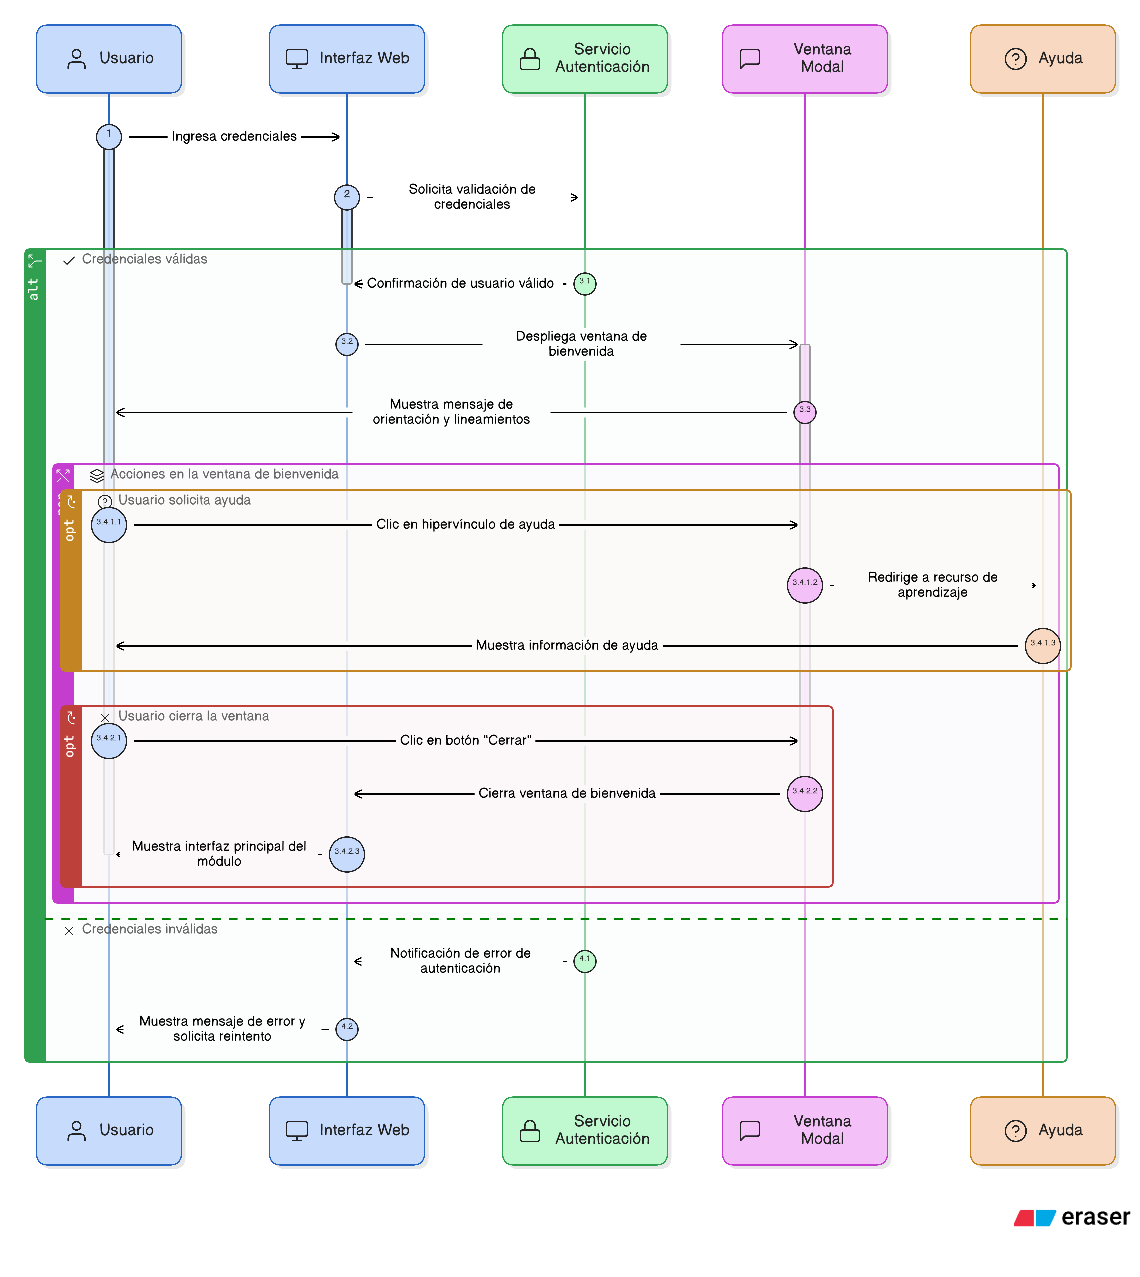
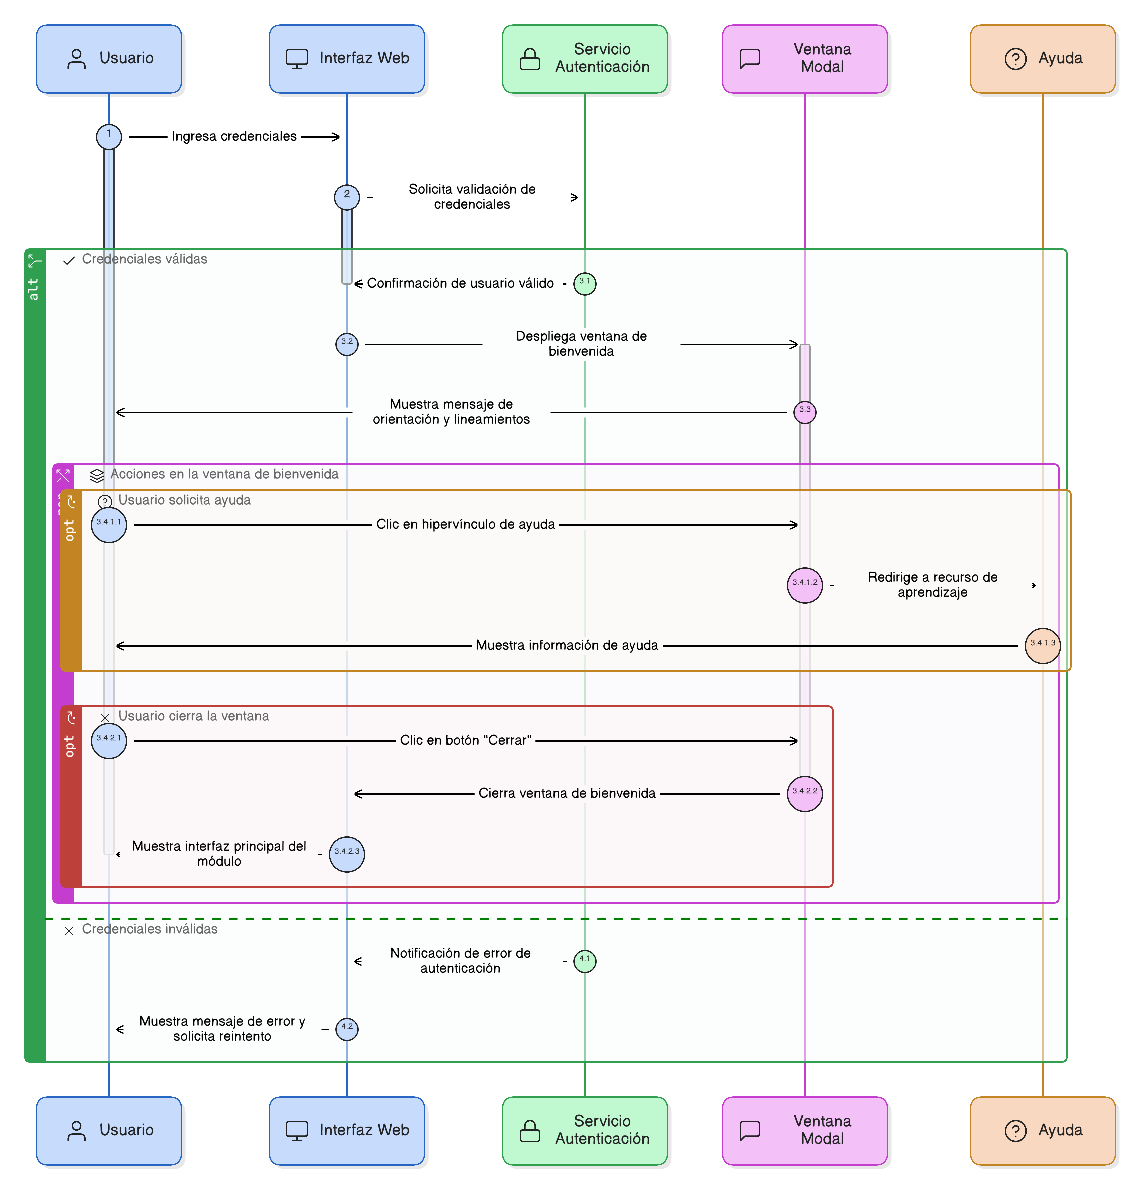
Se crea primera versión de Historía de usuario 004, se ajustan las imagenes referencia de hu-003

diff --git a/content/historias_usuario/HU-IDEAM-SNIF-REST-004/HU-IDEAM-SNIF-REST-004.md b/content/historias_usuario/HU-IDEAM-SNIF-REST-004/HU-IDEAM-SNIF-REST-004.md
@@ -1,0 +1,45 @@
+## HU-IDEAM-SNIF-REST-004
+
+> **Identificador Historia de Usuario:** hu-ideam-snif-rest-002 \
+> **Nombre Historia de Usuario:** Módulo de restauración - Interfaz general de navegación (estructura visual)
+
+> **Área Proyecto:** Subdirección de Ecosistemas e Información Ambiental \
+> **Nombre proyecto:** Realizar la construcción temática, mejoras informáticas y optimización del Módulo de restauración del SNIF del IDEAM. \
+> **Líder funcional:** Wilmer Espitia Muñoz\
+> **Analista de requerimiento de TI:** Sergio Alonso Anaya Estévez
+
+## DESCRIPCIÓN HISTORIA DE USUARIO
+
+> **Como:** usuario solicitante. \
+> **Quiero:** que al cerrar la ventana de bienvenidad, se despliegue la interfaza general del modulo con encabezado, cuerpo y pie de página. \
+> **Para:** navegar por las funcionalidades disponibles.
+
+## CRITERIOS DE ACEPTACIÓN
+
+1. **Encabezado (Header)**  
+   1.1 El encabezado debe mostar el logo institucional del IDEAM y la identidad visual del modulo, esto para permitir el origen del sistema. \
+   
+2. **Cuerpo (Body)**  
+   2.1 El cuerpo de la interfaz debe estar dividido en una zona de trabajo del visor geográfico y un área de visualización de contenidos, que permita operar las funciones espaciales del modulo. \
+   
+3. **Sidebar de gestión**
+   3.1 Debe tener un panel lateral izquierdo (sidebar) que agrupe las operacioones principales: catálogos temáticos, procesos y consultas.
+
+4. **Pie de página (Footer)**  
+   4.1 Debe contar con una franja inferior con escala numérica, las coordenadas actuales y un mapa general de contexto.
+
+
+## DIAGRAMA DE SECUENCIA
+
+![IMAGEN DIAGRAMA DE SECUENCIA](assets/secuencia-hu-ideam-snif-rest-004.png)
+
+## DIAGRAMA DE FLUJO DEL PROCESO
+
+![IMAGEN DIAGRAMA DE FLUJO DEL PROCESO](assets/actividades-hu-ideam-snif-rest-004.png)
+
+## PROTOTIPO PRELIMINAR
+
+![PROTOTIPO PRELIMINAR](assets/wireframe-hu-ideam-snif-rest-004.png)
+
+## ANEXOS
+

diff --git a/content/historias_usuario/README.md b/content/historias_usuario/README.md
@@ -14,6 +14,7 @@ Las historias de usuario representan las funcionalidades requeridas por los dife
 | [HU-IDEAM-SNIF-REST-001](/content/historias_usuario/HU-IDEAM-SNIF-REST-001/HU-IDEAM-SNIF-REST-001.md) | Flujo general | Acceso | Ingresar al modulo | Alta      | En formulación |
 | [HU-IDEAM-SNIF-REST-002](/content/historias_usuario/HU-IDEAM-SNIF-REST-002/HU-IDEAM-SNIF-REST-002.md) | Flujo general | Acceso | Ventana modal de inicio de sesión  | Alta      | En formulación |
 | [HU-IDEAM-SNIF-REST-003](/content/historias_usuario/HU-IDEAM-SNIF-REST-003/HU-IDEAM-SNIF-REST-003.md) | Flujo general | Acceso | Ventana modal de validación y bienvenida  | Alta      | En formulación |
+| [HU-IDEAM-SNIF-REST-004](/content/historias_usuario/HU-IDEAM-SNIF-REST-004/HU-IDEAM-SNIF-REST-004.md) | Flujo general | Acceso | Interfaz general de navegación (estructura visual)  | Alta      | En formulación |
 | [HU-IDEAM-SNIF-REST-008](/content/historias_usuario/HU-IDEAM-SNIF-REST-008/HU-IDEAM-SNIF-REST-008.md) | Representación visual | Escala gráfica y numérica                    | interpretar correctamente la relación entre las distancias en el mapa y las del terreno | Alta      | En formulación |
 | [HU-IDEAM-SNIF-REST-009](/content/historias_usuario/HU-IDEAM-SNIF-REST-009/HU-IDEAM-SNIF-REST-009.md) | Representación visual | Coordenadas geográficas y proyectadas                    | ubicar con precisión la posición del cursor sobre el mapa | Alta      | En formulación |
 | [HU-IDEAM-SNIF-REST-010](/content/historias_usuario/HU-IDEAM-SNIF-REST-010/HU-IDEAM-SNIF-REST-010.md) | Representación visual | Mapa general (Overview Map)                    | disponer de un mapa general que muestre el contexto espacial de mi vista actual  | Alta      | En formulación |
